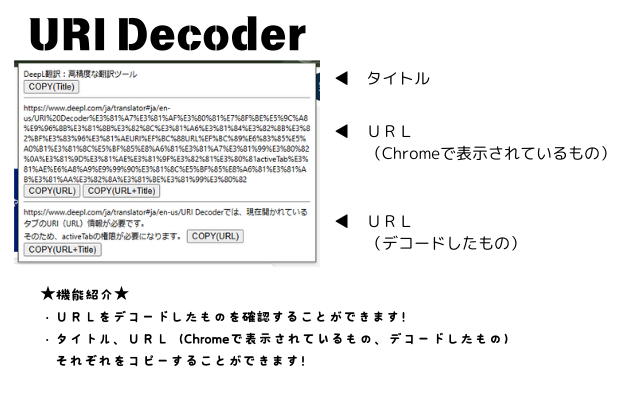
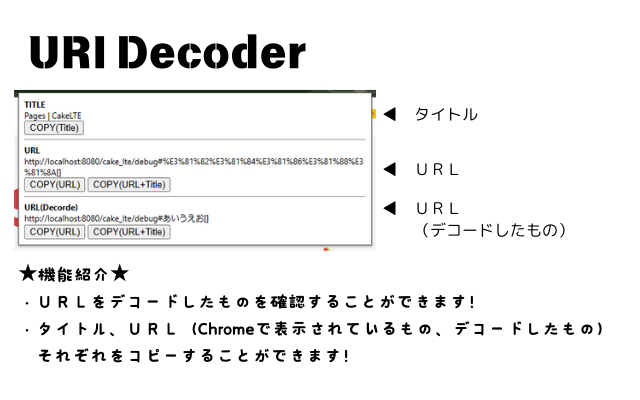
- フォルダを再構成 - 各表示項目に項目名を追加 - READMEにスクリーンショットを追加 - READMEにインストール手順を追加 - スクリーンショットを変更

Changed region(s): [[0.0, 0.03, 0.9375, 0.93], [0.6562, 0.27, 0.75, 0.3]]

diff --git a/src/popup.html b/src/popup.html
@@ -7,26 +7,29 @@
   <title>URL Decode</title>
   <style>
     body {
-      width: 450px;
+      width: 500px;
       word-wrap: break-word;
     }
   </style>
 </head>
 
 <body>
+  <span><b>TITLE</b></span><br />
   <span id="titleContainer"></span><br />
   <button id="copyTitleButton">COPY(Title)</button>
   <hr />
+  <span><b>URL</b></span><br />
   <span id="urlContainer"></span><br />
   <button id="copyUrlButton">COPY(URL)</button>
   <button id="copyTitleAndUrlButton">COPY(URL&plus;Title)</button>
   <br />
   <hr id="decHr" />
-  <span id="urlDecContainer" style="display: none;"></span>
+  <span id="decH3" style="display: none;"><b>URL(Decorde)</b></span><br />
+  <span id="urlDecContainer" style="display: none;"></span><br />
   <button id="copyDecUrlButton" style="display: none;">COPY(URL)</button>
   <button id="copyTitleAndDecUrlButton" style="display: none;">COPY(URL&plus;Title)</button>
   <div id="status"></div>
-  <script src="popup.js"></script>
+  <script src="js/popup.js"></script>
 </body>
 
 </html>

diff --git a/src/js/popup.js b/src/js/popup.js
@@ -15,6 +15,7 @@ document.addEventListener("DOMContentLoaded", function () {
       if (currentTab.url === decodedUrl) {
         document.getElementById("decHr").style.border = "none";
       } else {
+        document.getElementById("decH3").style.display = "inline";
         document.getElementById("urlDecContainer").style.display = "inline";
         document.getElementById("urlDecContainer").innerText = decodedUrl;
         document.getElementById("copyDecUrlButton").style.display = "inline";

diff --git a/README.md b/README.md
@@ -1,9 +1,32 @@
 # Chrome URI Decorder
 
+![ScreenShot1]("URI Decoder image01.png")
+
 ## なにをするもの？
 
 - ChromeでエンコードされてしまっているURLをデコードして表示・コピーできます。
 - 「タイトルのみ」「URLのみ」「タイトル＋URL」をコピーできます。
+
+## インストール（chromeウェブストア）
+
+- 現在、chromeウェブストアに申請中です。
+
+## インストール（手動）
+
+- このリポジトリをクローンするか、zipでダウンロードして解凍します。
+- Chromeの[拡張機能(chrome://extensions/)](chrome://extensions/)を開きます。
+- 右上にある「デベロッパー モード」のスイッチをオンにします。
+- 「パッケージ化されていない拡張機能を読み込む」をクリックします。
+- ダウンロードした、このリポジトリにある「src」フォルダーを選択します。
+- 「すべての拡張機能」に「URI Decoder」が追加されれば完了です！
+
+## アンインストール
+
+- Chromeの[拡張機能(chrome://extensions/)](chrome://extensions/)を開きます。
+- 「すべての拡張機能」に「URI Decoder」の左下にある「詳細」をクリックします。
+- ページの一番下にある「拡張機能を削除」をクリックします。
+- ダウンロードした、このリポジトリを削除します。
+- アンインストールが完了しました！
 
 ## 参考元
 
